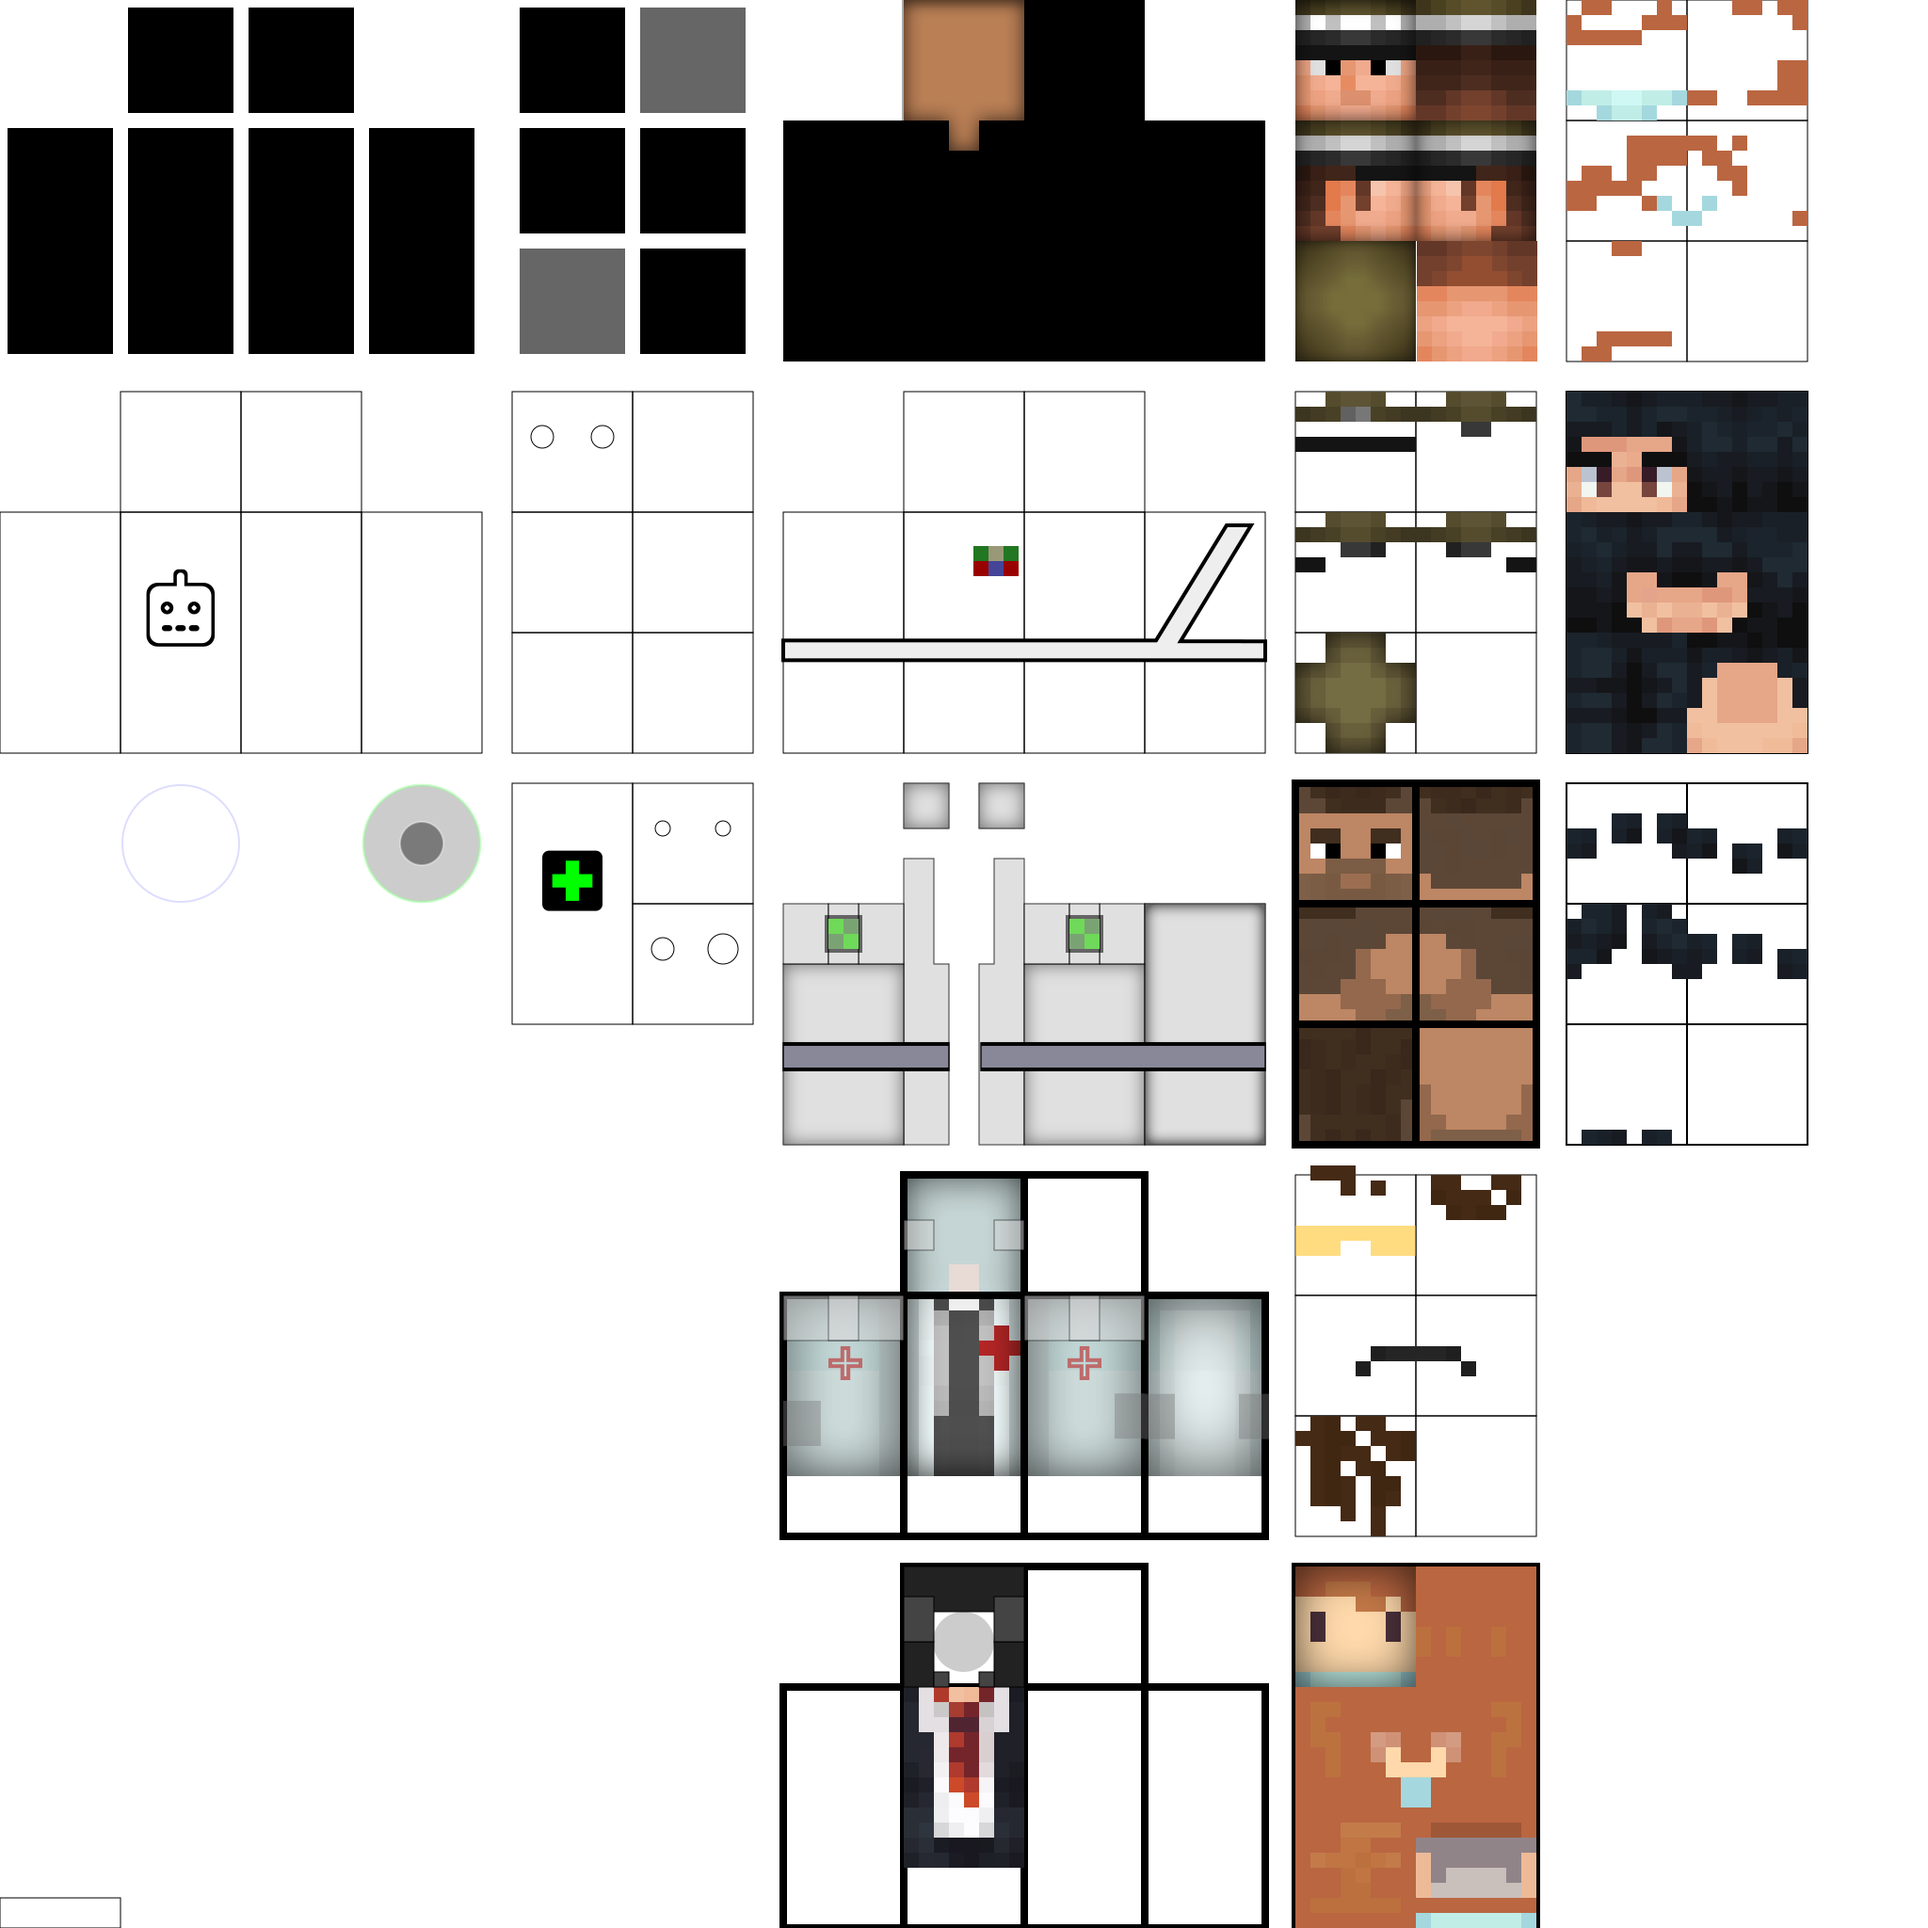
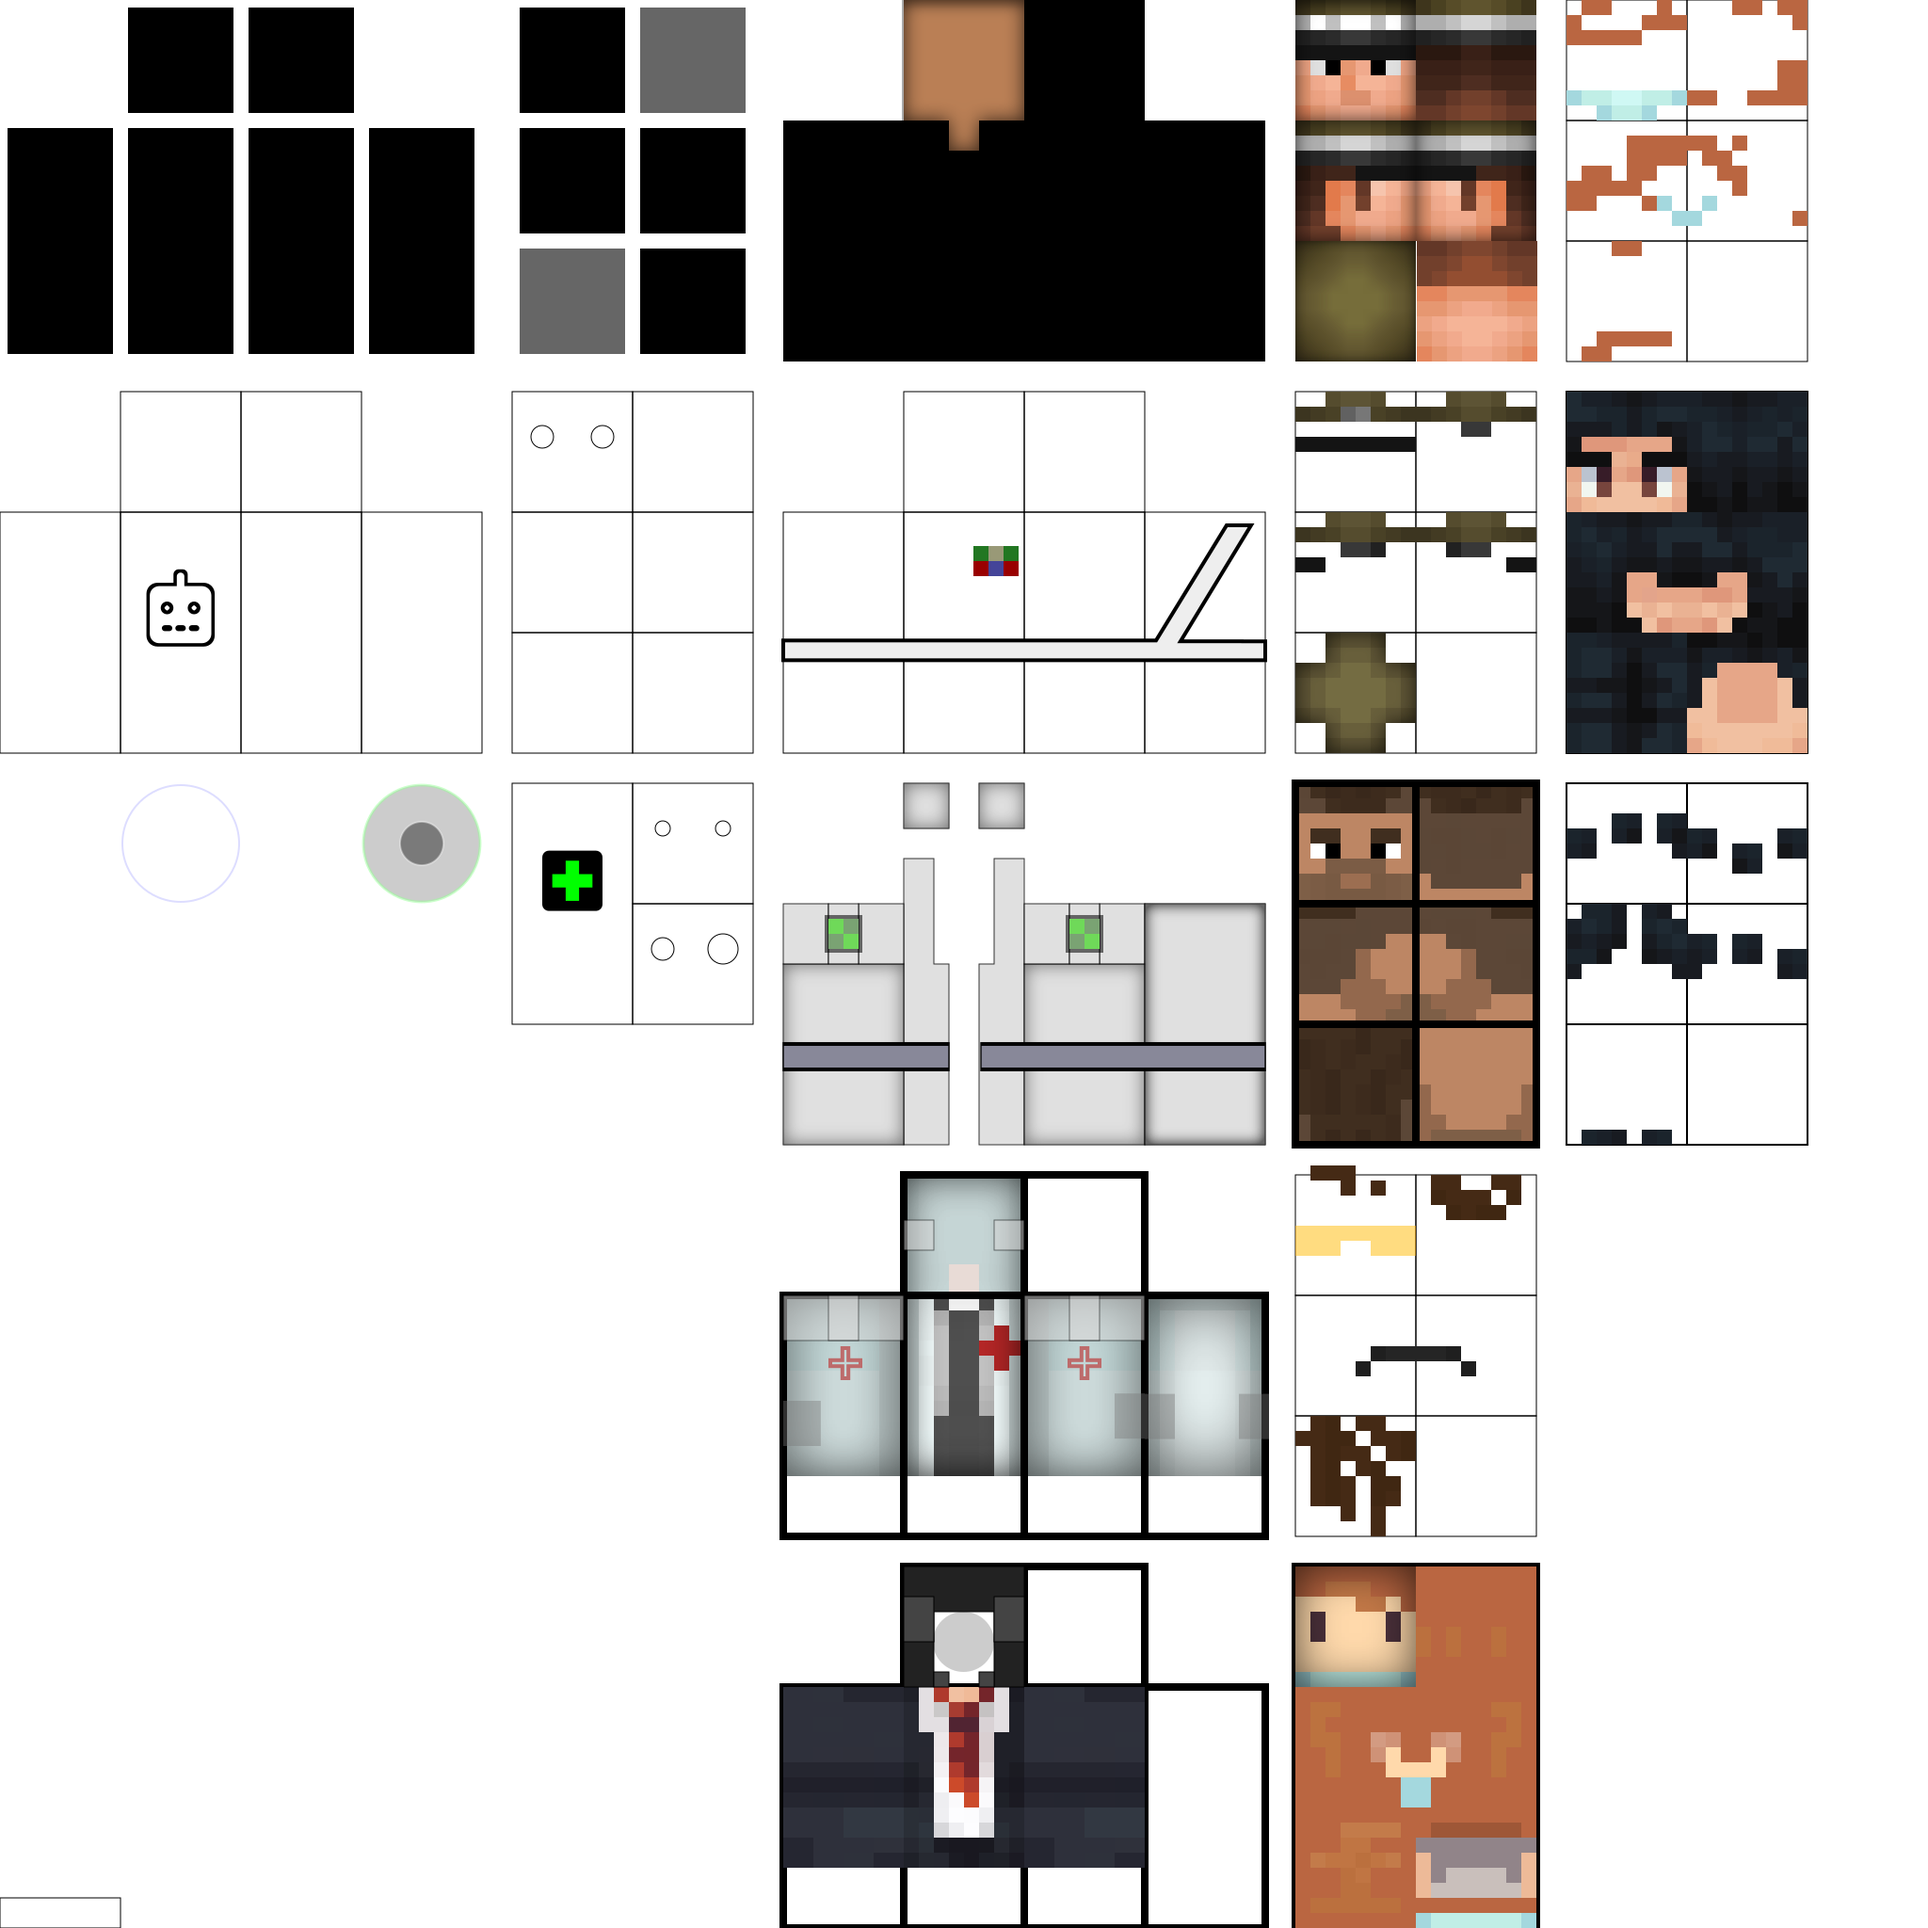
feat: skin: suit-0 tweaks

Changed region(s): [[0.5312, 0.875, 0.5938, 0.9688], [0.4062, 0.875, 0.4688, 0.9688]]

diff --git a/README.md b/README.md
@@ -260,6 +260,8 @@ We'll try to re-map publicly available Minecraft Skins.
   - 🚧 https://namemc.com/skin/194c3366860674c0
 - https://namemc.com/minecraft-skins/tag/suit
   - 🚧 https://namemc.com/skin/7271372bc0b9bc89
+- https://namemc.com/minecraft-skins/tag/police
+  - 🚧 https://namemc.com/skin/c06caf409cd8427e
 - https://namemc.com/minecraft-skins/tag/business
   - https://namemc.com/skin/9ec38f8ce7f8498d
 - https://namemc.com/minecraft-skins/tag/engineer
@@ -272,8 +274,6 @@ We'll try to re-map publicly available Minecraft Skins.
 - https://namemc.com/minecraft-skins/tag/priest
 - https://namemc.com/minecraft-skins/tag/scary
   - https://namemc.com/skin/aa774a19c9ce5fc9
-- https://namemc.com/minecraft-skins/tag/police
-  - https://namemc.com/skin/c06caf409cd8427e
 - https://namemc.com/minecraft-skins/tag/star-wars
   - https://namemc.com/skin/c4e6ff045b7ab219
 - https://namemc.com/minecraft-skins/tag/skeleton

diff --git a/docs/TODO.md b/docs/TODO.md
@@ -57,8 +57,10 @@
 - 🚧 three more minecraft skin migrations (total 5)
   - ✅ medic-0
     - https://namemc.com/skin/194c3366860674c0
-  - 🚧 suit-0
+  - ✅ suit-0
     - https://namemc.com/skin/7271372bc0b9bc89
+  - 🚧 police-0
+    - https://namemc.com/skin/c06caf409cd8427e
 
 - 🚧 cleanup human-0 skin
   - ✅ Blender: overlay cuboids should be double-sided
